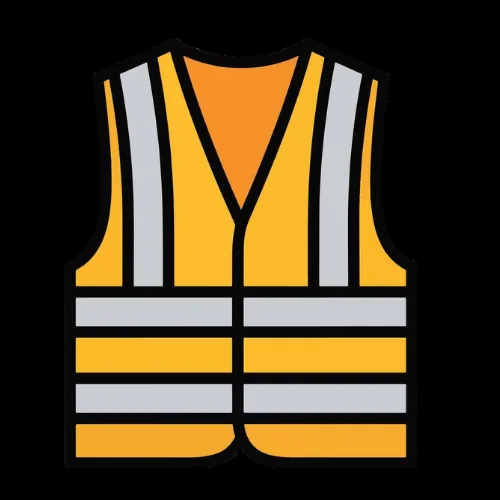
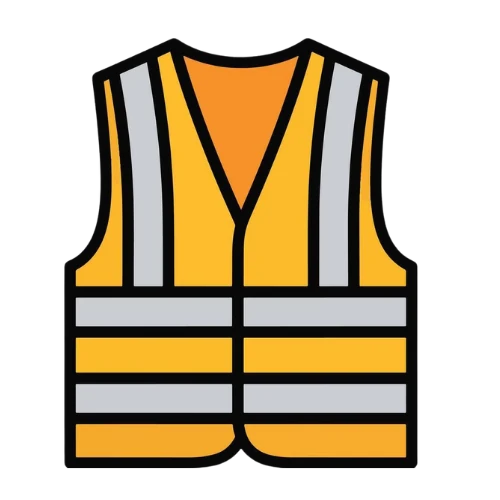
Badges: keep PNG transparency in WebP, drop screen-blend hack

diff --git a/components/PoliceRanksBoard.tsx b/components/PoliceRanksBoard.tsx
@@ -76,9 +76,6 @@ const RANK_BADGE_IMG: Record<number, string> = {
 
 const badgeImg = (idx: number): string | null => RANK_BADGE_IMG[idx] ?? null;
 
-/* الخلفية السوداء للصور تذوب في خلفية الموقع الداكنة */
-const BADGE_BLEND: React.CSSProperties = { mixBlendMode: 'screen' };
-
 /* ── هوية كل طبقة: لون + حلقة + توهج ─────────────────────────── */
 type Tier = { color: string; ring: string; glow: string; bar: string };
 
@@ -155,7 +152,7 @@ const RankBadge: React.FC<{ emoji?: string; name: string; idx: number; big?: boo
             style={{ borderColor: `${t.color}66`, background: `${t.color}1F`, color: t.color, boxShadow: `0 0 14px -4px ${t.glow}` }}
         >
             {img
-                ? <img src={img} alt="" aria-hidden="true" loading="lazy" className={big ? 'h-6 w-auto object-contain' : 'h-5 w-auto object-contain'} style={BADGE_BLEND} />
+                ? <img src={img} alt="" aria-hidden="true" loading="lazy" className={big ? 'h-6 w-auto object-contain' : 'h-5 w-auto object-contain'} />
                 : <span aria-hidden="true">{emoji}</span>}
             <span dir="auto">{name}</span>
         </span>
@@ -204,7 +201,7 @@ const RankLadder: React.FC<{ ranks: RankDef[]; ar: boolean; title: string; sub: 
                             <div className="h-1 w-10 mx-auto rounded-full" style={{ background: t.bar }} />
                             <div className="mt-2 h-20 flex items-center justify-center">
                                 {img
-                                    ? <img src={img} alt={ar ? r.name_ar : r.name_en} loading="lazy" className="h-20 w-auto object-contain" style={{ ...BADGE_BLEND, filter: `drop-shadow(0 0 10px ${t.glow})` }} />
+                                    ? <img src={img} alt={ar ? r.name_ar : r.name_en} loading="lazy" className="h-20 w-auto object-contain" style={{ filter: `drop-shadow(0 0 10px ${t.glow})` }} />
                                     : <p className="text-4xl leading-none" aria-hidden="true">{r.emoji}</p>}
                             </div>
                             <p className="mt-2 truncate text-[12px] font-black text-white" dir="auto" title={ar ? r.name_ar : r.name_en}>
